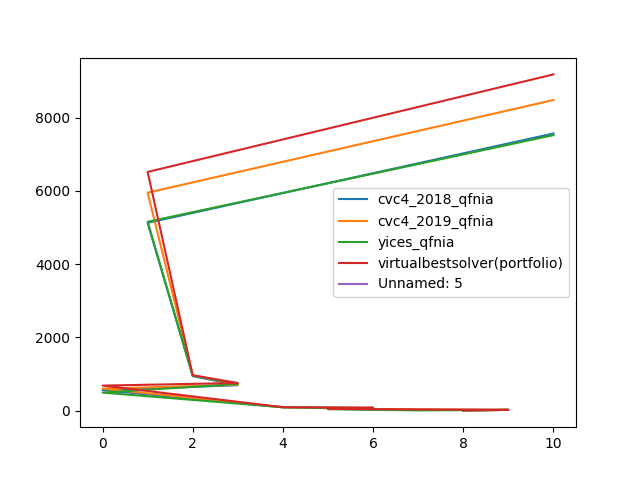
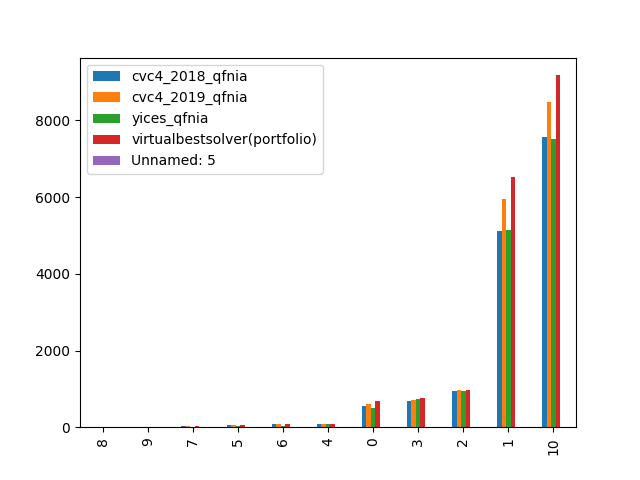
.

diff --git a/PI-Aug-2019-stats/scripts/gen_plots.py b/PI-Aug-2019-stats/scripts/gen_plots.py
@@ -18,7 +18,7 @@ for csv_file in os.listdir(cluster_csv_dir):
     data = data.applymap(to_int)
     data.sort_values(data.columns[2], inplace=True)
     print(data)
-    p = data.plot()
+    p = data.plot(kind='bar')
     f = p.get_figure()
     f.savefig('/home/yoniz/git/hermes/PI-Aug-2019-stats/plots/' + csv_file + '.png')
 
